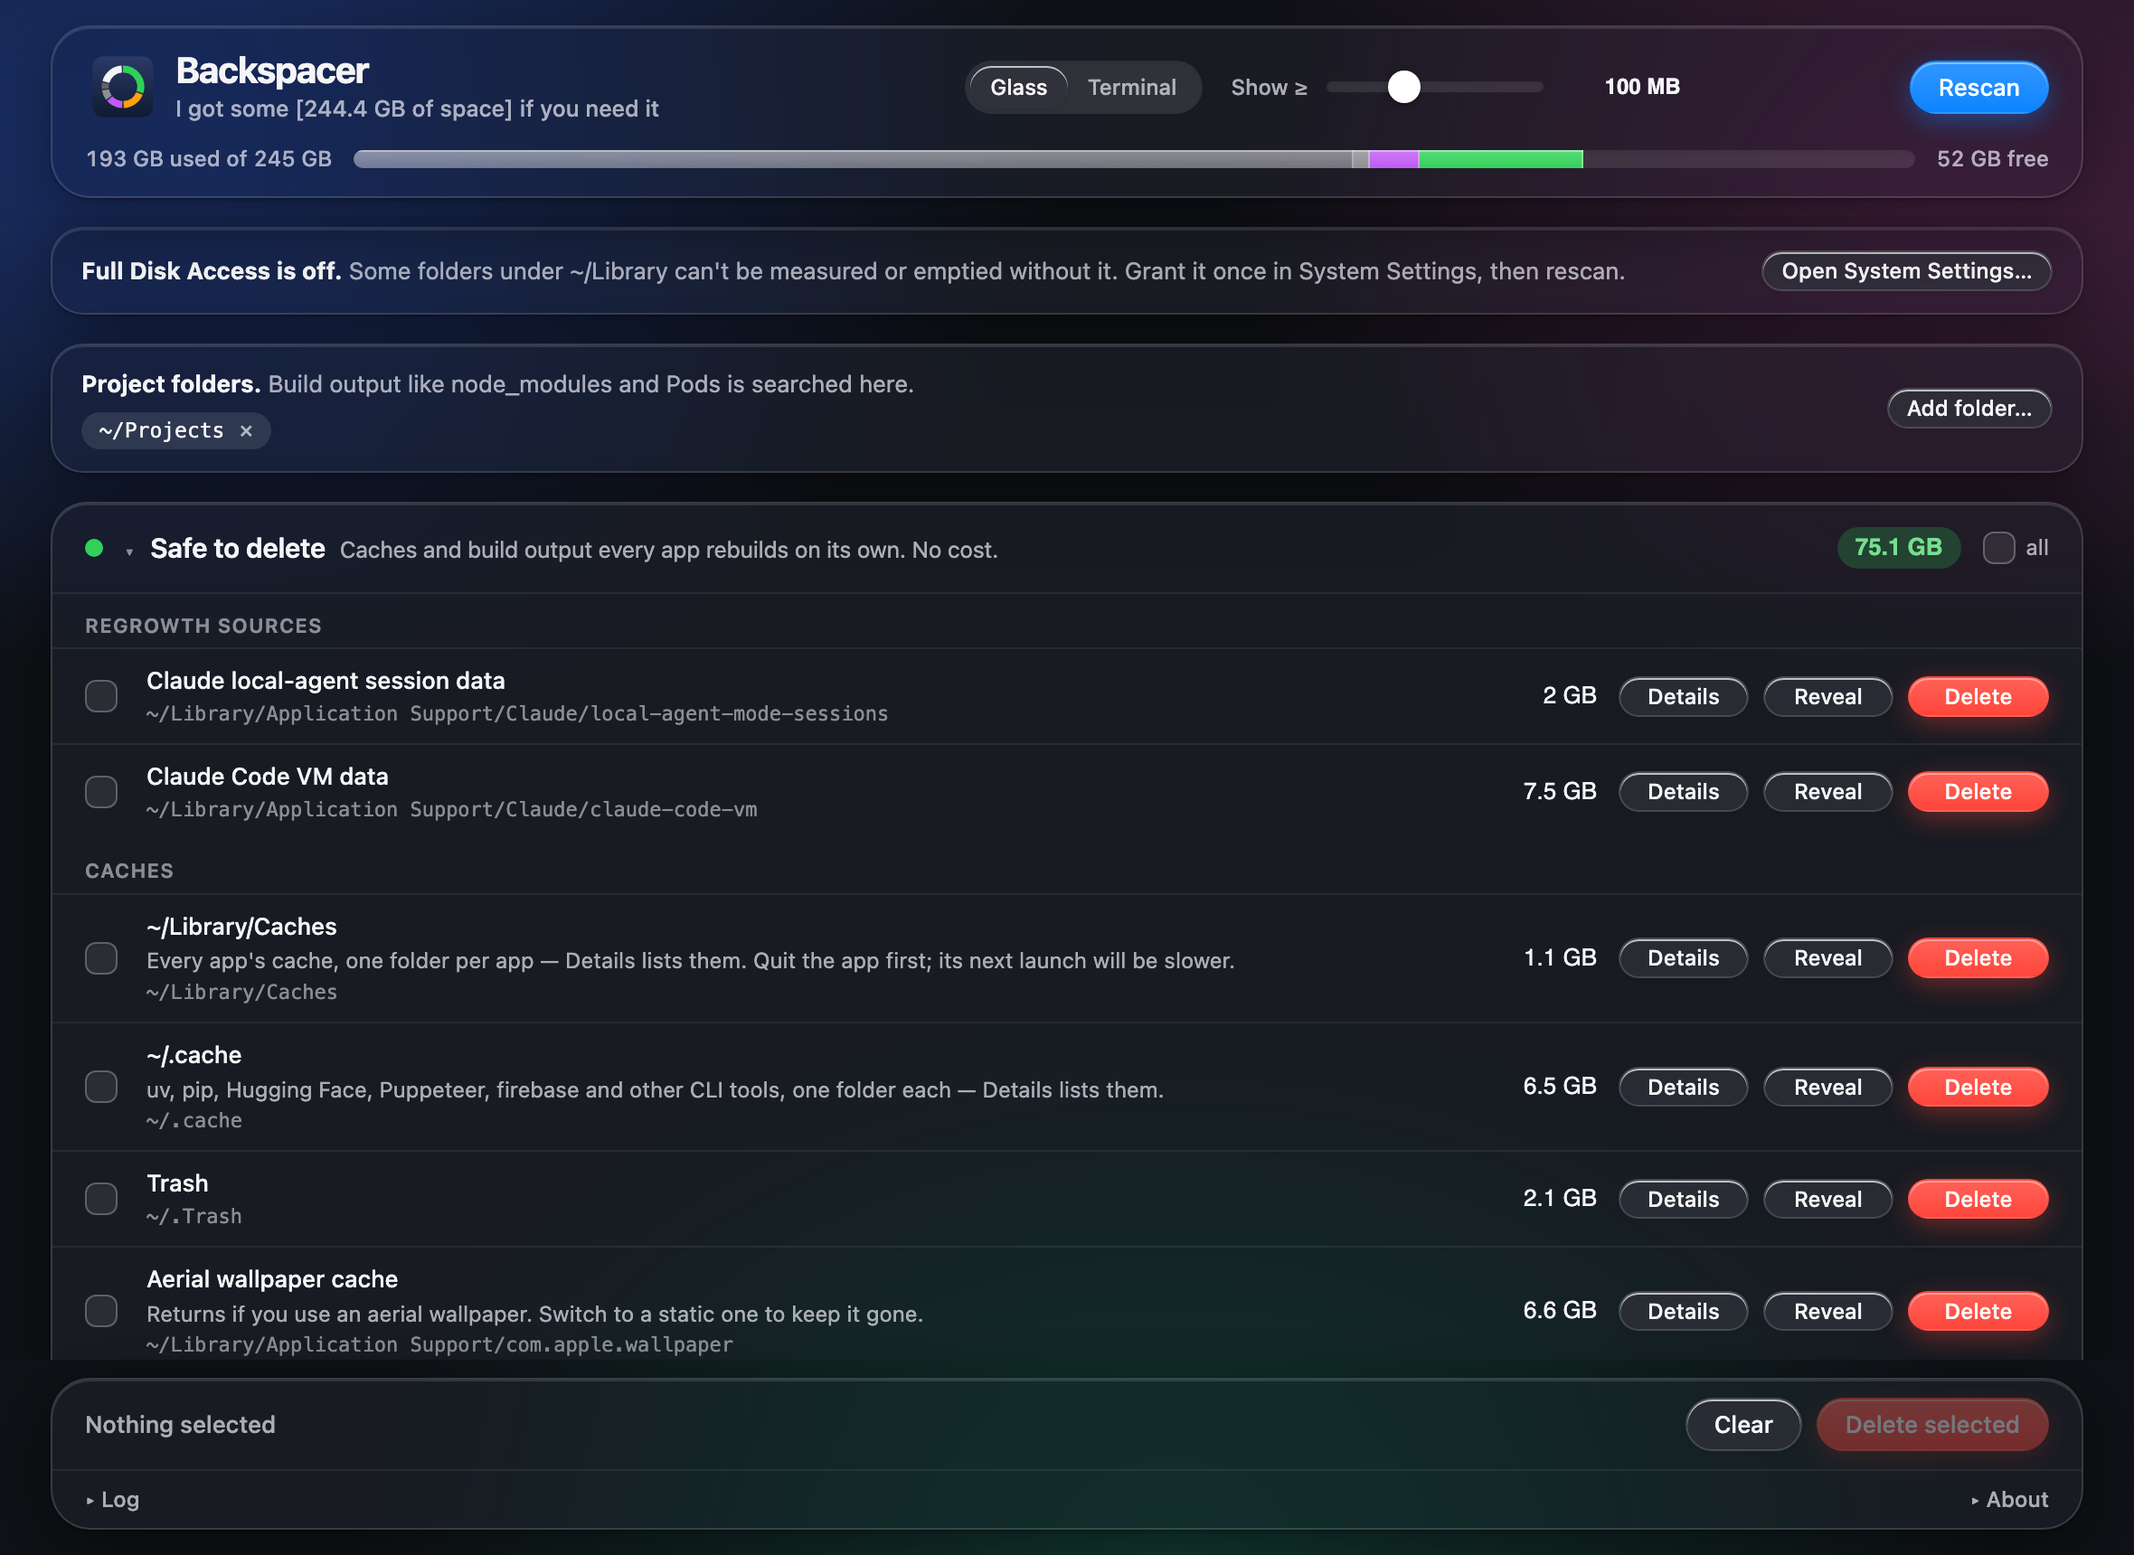
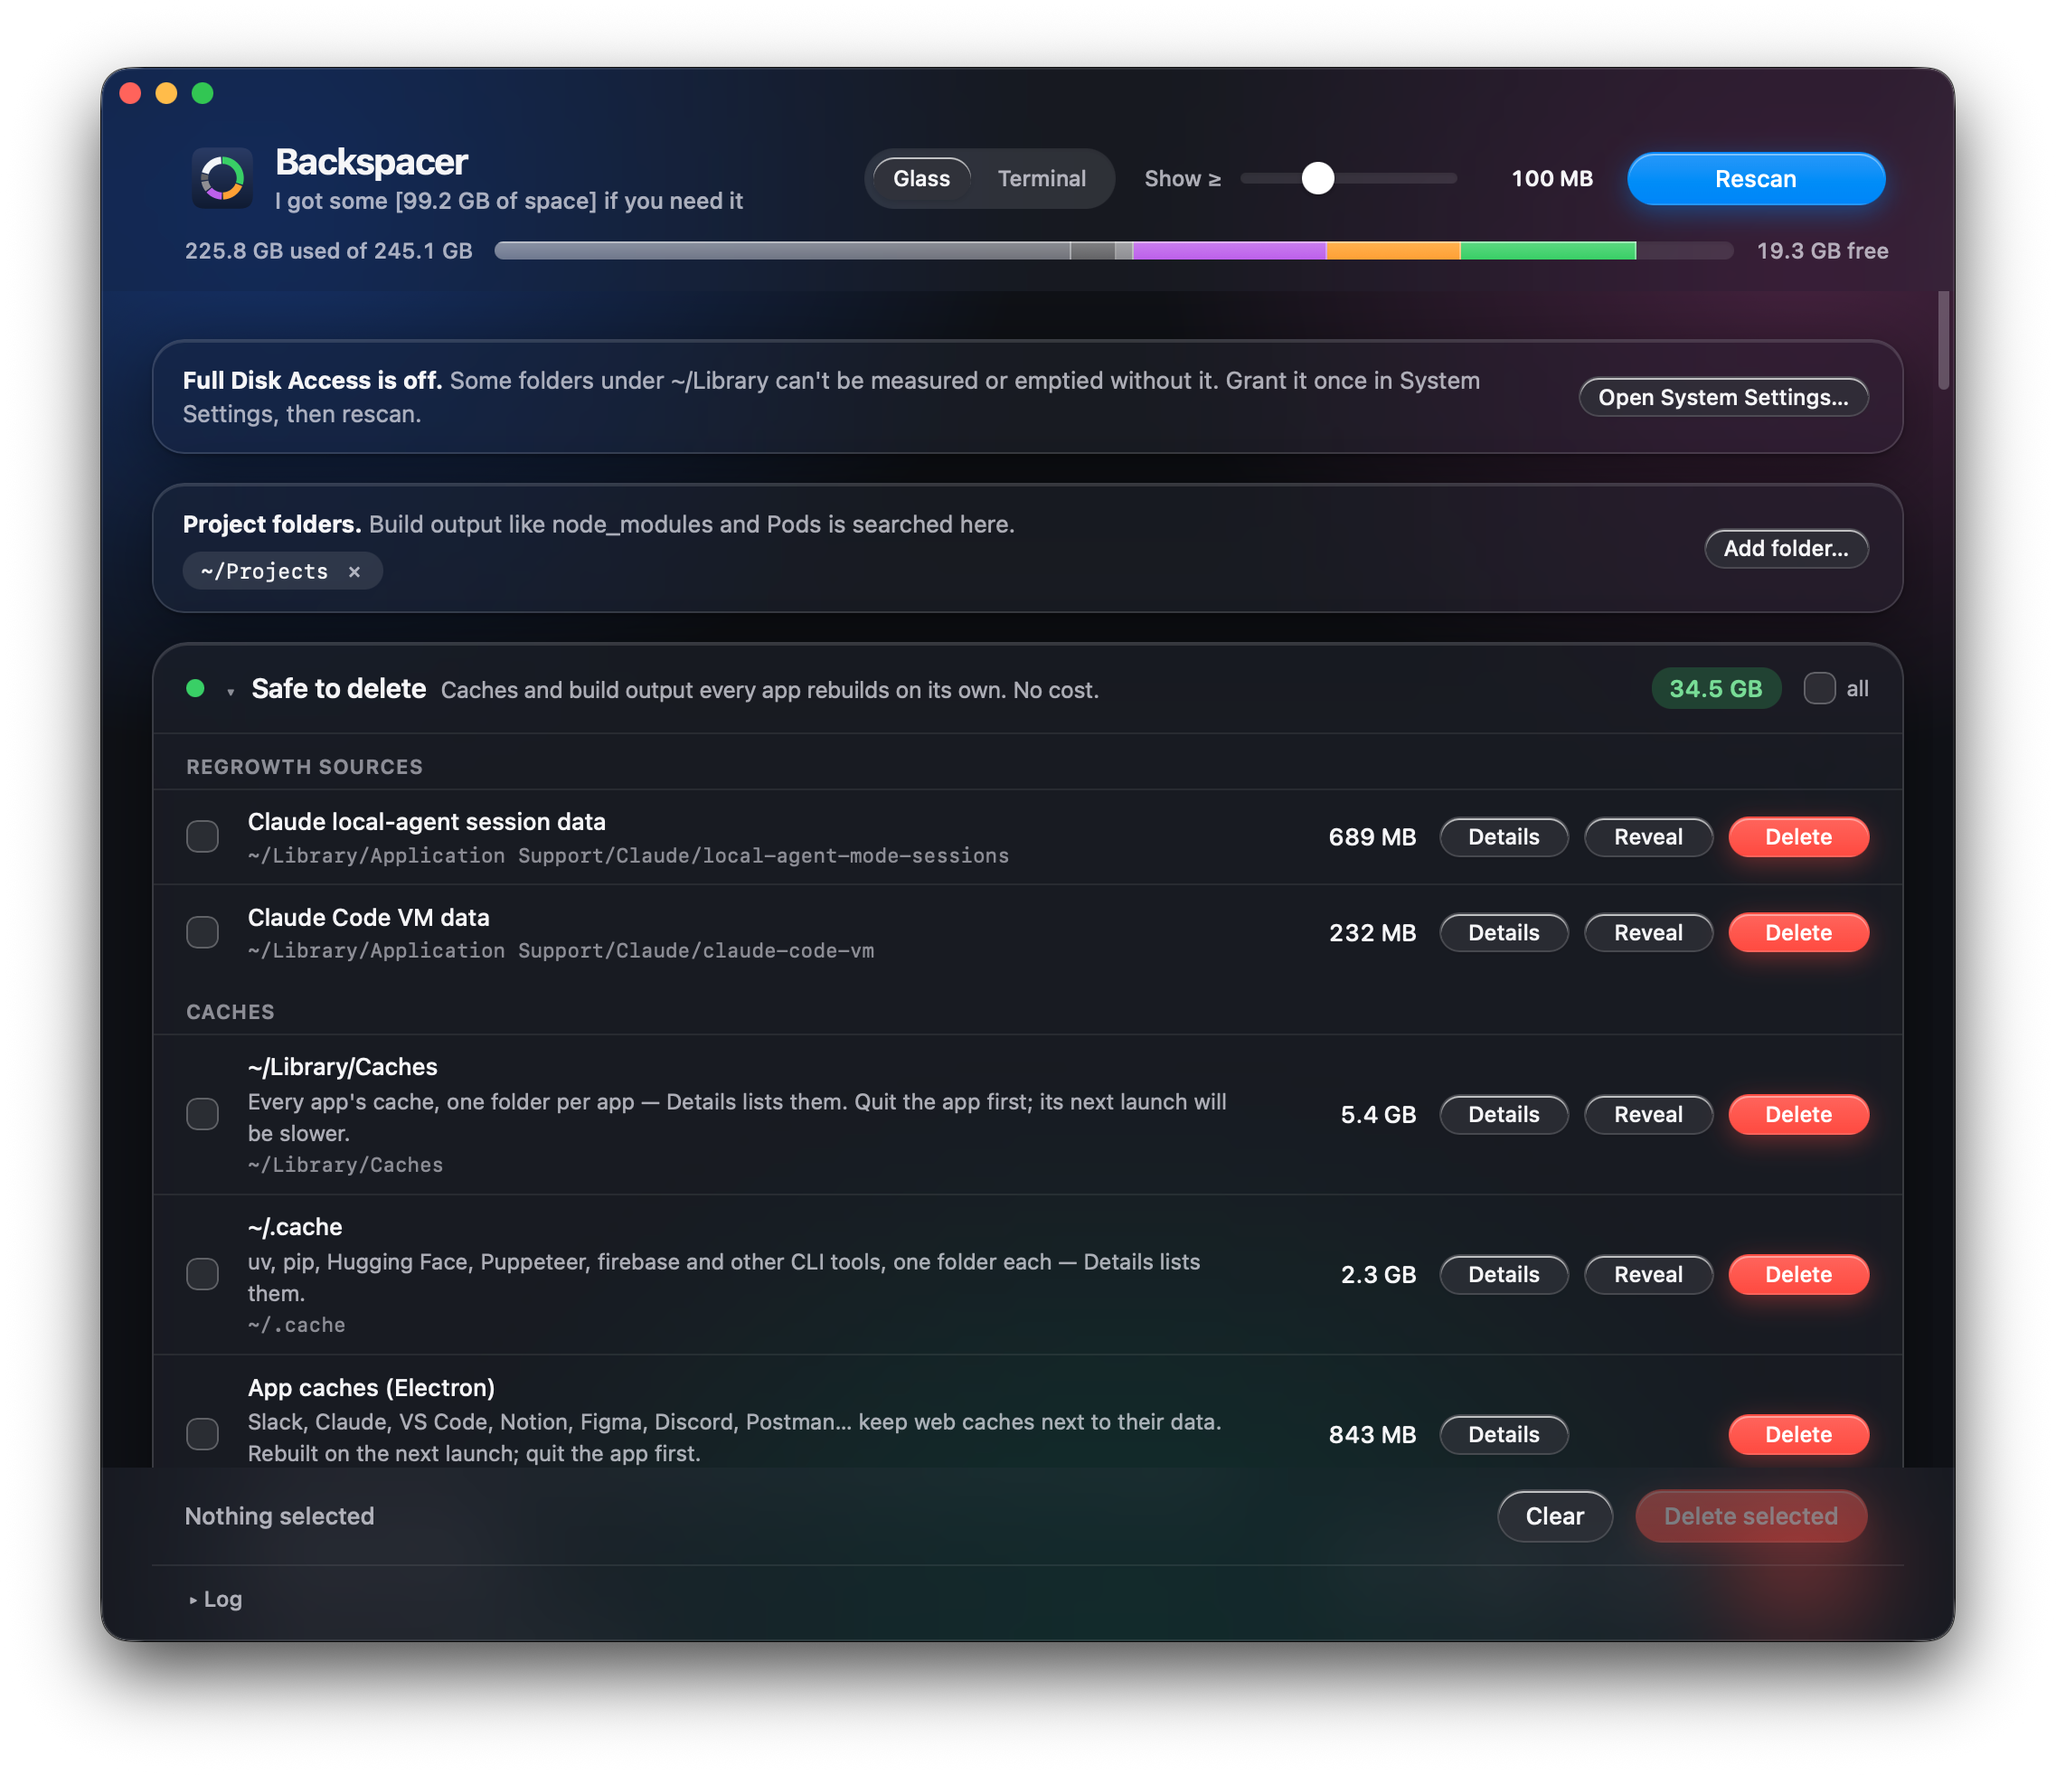
Screenshots: the maintainer's window captures (light, real dark, Terminal) on the site and in the README
From _meta/marketing/ (local): 2274 px captures with the system shadow,
trimmed to it for the site and served as WebP (190–230 KB) with PNG
fallback; the page no longer draws its own frame around the app figure.
og.png cut from the light capture; README image is the untrimmed light one.

diff --git a/site/index.html b/site/index.html
@@ -8,7 +8,7 @@
 <meta name="color-scheme" content="light dark">
 <meta name="theme-color" content="#e6ebf2" media="(prefers-color-scheme: light)">
 <meta name="theme-color" content="#0f1115" media="(prefers-color-scheme: dark)">
-<meta http-equiv="Content-Security-Policy" content="default-src 'none'; img-src 'self'; style-src 'sha256-+Y91bW9uY44bRYJYCY4K6ibETHydiOdTM3d7sNflrnY=' 'sha256-zuC+LV5n0BUkLa/A4n2burrFF3EB7SL//tM1iPzsmh4='; script-src 'sha256-IX1qBYiVw8Nrp7GNO8QYguWX6ozuRZGezud/rVsAalI='; connect-src https://api.github.com; base-uri 'none'; form-action 'none'">
+<meta http-equiv="Content-Security-Policy" content="default-src 'none'; img-src 'self'; style-src 'sha256-XE4XcvXZ4a2gcqCEHtf1HM/hgoZiiNxBFqrQpAVX3IA=' 'sha256-zuC+LV5n0BUkLa/A4n2burrFF3EB7SL//tM1iPzsmh4='; script-src 'sha256-IX1qBYiVw8Nrp7GNO8QYguWX6ozuRZGezud/rVsAalI='; connect-src https://api.github.com; base-uri 'none'; form-action 'none'">
 <link rel="canonical" href="https://backspacer.dev/">
 <link rel="icon" href="favicon.ico?v=2" sizes="48x48 32x32 16x16">
 <link rel="icon" href="assets/icon-64.png?v=2" sizes="64x64" type="image/png">
@@ -171,8 +171,9 @@
   .ftotals li::before { content: ""; display: inline-block; width: 8px; height: 8px; border-radius: 50%; margin-right: 7px; background: var(--dot); vertical-align: 1px; }
   .ftotals b { color: var(--fg); font-variant-numeric: tabular-nums; }
   .rcap { margin: 14px 0 0; font-size: 14px; color: var(--faint); max-width: 52ch; }
-  .shot.app { margin: 28px 0 0; }
-  .shot.app figcaption { padding: 10px 14px 12px; font-size: 13.5px; color: var(--muted); border-top: 1px solid var(--border); }
+  .shot.app { margin: 28px 0 0; border: 0; background: none; box-shadow: none; border-radius: 0; overflow: visible; }
+  .shot.app img { width: 100%; height: auto; }
+  .shot.app figcaption { padding: 4px 24px 0; font-size: 13.5px; color: var(--muted); }
   .storage { margin: 0; border-radius: var(--radius); background: var(--card); border: 1px solid var(--border); box-shadow: var(--shadow); padding: 2px 16px; }
   .storage .row { display: grid; grid-template-columns: 32px 1fr auto; align-items: center; gap: 12px; padding: 9px 0; border-top: 1px solid rgba(128,128,128,.18); font-size: 16px; }
   .storage .row:first-child { border-top: 0; }
@@ -397,14 +398,13 @@ brew install --cask backspacer</code></pre>
         <article class="bucket locked"><h3><i aria-hidden="true"></i>Managed by macOS</h3><p>macOS manages these itself — purged automatically or SIP-protected. Shown for accounting.</p><span class="tag">read-only</span></article>
       </div>
       <figure class="shot app">
-        <div class="win" aria-hidden="true"><i></i><i></i><i></i></div>
         <picture>
           <source srcset="assets/screenshot-terminal.webp" type="image/webp" media="not all" data-skin="terminal">
           <source srcset="assets/screenshot-terminal.png" media="not all" data-skin="terminal">
           <source srcset="assets/screenshot-dark.webp" type="image/webp" media="(prefers-color-scheme: dark)">
           <source srcset="assets/screenshot-dark.png" media="(prefers-color-scheme: dark)">
           <source srcset="assets/screenshot-light.webp" type="image/webp">
-          <img src="assets/screenshot-light.png" width="2134" height="1676" alt="Backspacer after a scan: the icon and tagline with 100.5 GB of space found, a disk meter, then the Safe to delete bucket listing Claude session data, ~/Library/Caches and ~/.cache with sizes and Details, Reveal and Delete buttons on each row" loading="lazy">
+          <img src="assets/screenshot-light.png" width="2274" height="1963" alt="Backspacer after a scan: the icon and tagline with 100.5 GB of space found, a disk meter, then the Safe to delete bucket listing Claude session data, ~/Library/Caches and ~/.cache with sizes and Details, Reveal and Delete buttons on each row" loading="lazy">
         </picture>
         <figcaption>A real scan. Xcode, simulators, npm, Gradle, Docker, Electron apps and the AI tools' own caches — every row says what it is, where it lives and how much, with its own Details, Reveal and Delete.</figcaption>
       </figure>

diff --git a/Tests/web/site.test.js b/Tests/web/site.test.js
@@ -182,7 +182,8 @@ test('W15 reveal hero: the System Data row unfolds into a real findings card; th
   assert.match(html, /\.hero-copy \{ position: sticky; top: /, 'the copy column sticks while the reveal scrolls');
   assert.doesNotMatch(html, /class="vs"/, 'the old comparison grid is gone');
   const how = html.match(/<section id="how"[\s\S]*?<\/section>/)[0];
-  assert.match(how, /<figure class="shot app">[\s\S]*?<img src="assets\/screenshot-light\.png" width="2134" height="1676"/, 'the real window, full width, in the buckets section');
+  assert.doesNotMatch(how, /<figure class="shot app">\s*<div class="win"/, 'real window captures carry their own chrome');
+  assert.match(how, /<figure class="shot app">[\s\S]*?<img src="assets\/screenshot-light\.png" width="2274" height="1963"/, 'the real window, full width, in the buckets section');
   assert.match(how, /<figcaption>/, 'with a caption');
 });
 

diff --git a/_meta/system-documentation.md b/_meta/system-documentation.md
@@ -233,9 +233,12 @@ the "reveal": the macOS Storage list ending in System Data, then a findings
 card with seven of this Mac's largest entries and the three bucket totals
 — markup, not an image, measured with `du` over the catalog on 2026-09-20,
 so it stays legible at any size and follows the look and colour scheme.
-The real window capture sits full width under the bucket cards (light,
-dark and Terminal variants, chosen by `prefers-color-scheme` and the
-look); `og.png` is the share card.
+The real window captures sit full width under the bucket cards — the
+maintainer's own screenshots from `_meta/marketing/` (local, not in git),
+trimmed to the window shadow and served as WebP with PNG fallback — in
+light, dark and Terminal, chosen by `prefers-color-scheme` and the look;
+the page draws no frame around them. `og.png` is cut from the light one;
+the README uses it untrimmed.
 
 Look: the same two skins as the app. Glass follows the OS light/dark
 setting; Terminal is always dark. The header switcher sets
